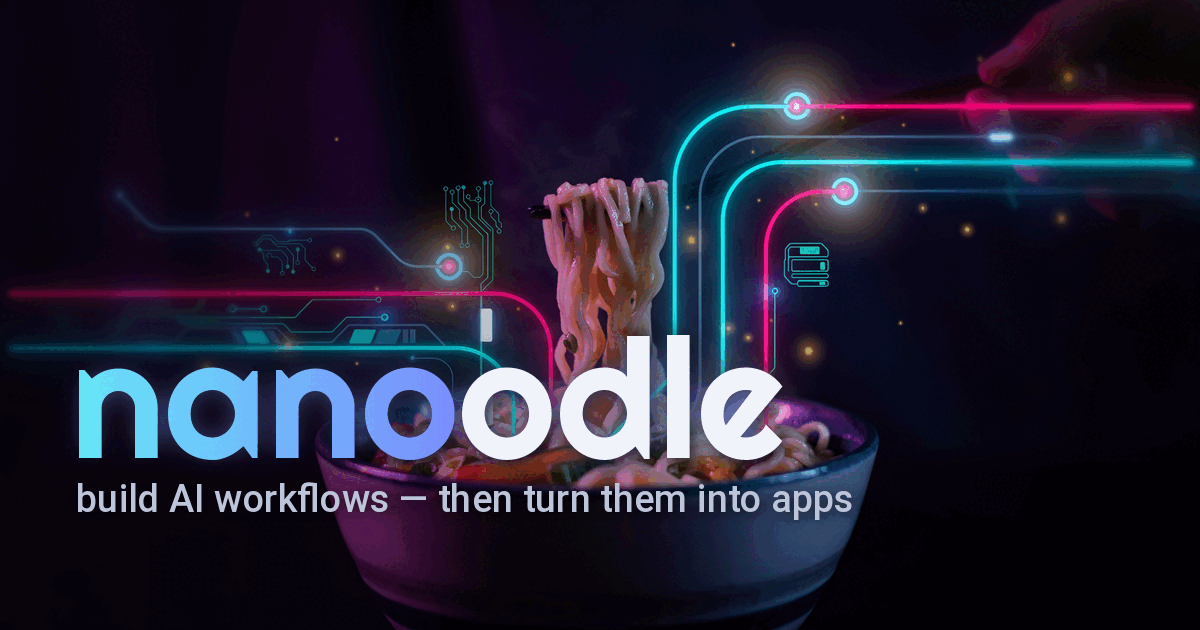
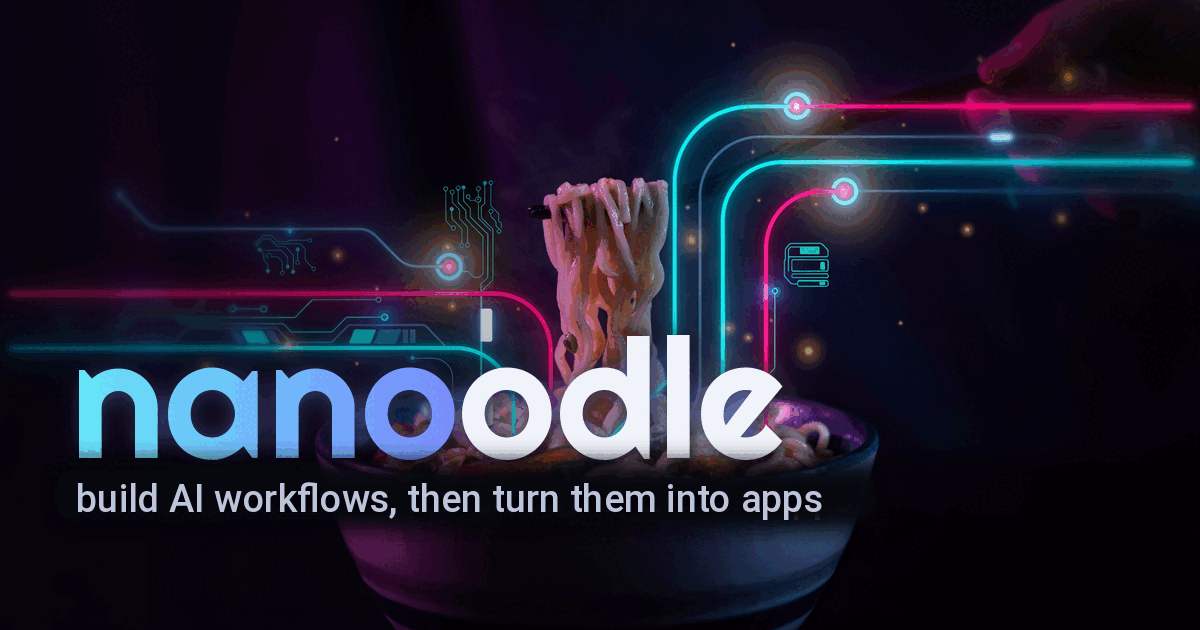
Drop em-dashes from the social copy and the card image
Reworded the meta titles/descriptions/alt on index/play/legal to use the
site's "nanoodle - X" hyphen convention, parentheses, and plain sentences
instead of em-dashes. Re-rendered og-card.png so the baked-in tagline reads
"build AI workflows, then turn them into apps". Code comments are untouched.

diff --git a/legal.html b/legal.html
@@ -3,24 +3,24 @@
 <head>
 <meta charset="utf-8" />
 <meta name="viewport" content="width=device-width, initial-scale=1" />
-<title>nanoodle — Terms, Privacy & FAQ</title>
-<meta name="description" content="nanoodle's Terms, Privacy policy and FAQ. No analytics, just static HTML and nano-gpt — noodle in privacy." />
+<title>nanoodle - Terms, Privacy & FAQ</title>
+<meta name="description" content="nanoodle's Terms, Privacy policy and FAQ. No analytics, just static HTML and nano-gpt, so you can noodle in privacy." />
 
 <!-- Open Graph -->
 <meta property="og:type" content="website" />
 <meta property="og:site_name" content="nanoodle" />
-<meta property="og:title" content="nanoodle — Terms, Privacy & FAQ" />
-<meta property="og:description" content="nanoodle's Terms, Privacy policy and FAQ. No analytics, just static HTML and nano-gpt — noodle in privacy." />
+<meta property="og:title" content="nanoodle - Terms, Privacy & FAQ" />
+<meta property="og:description" content="nanoodle's Terms, Privacy policy and FAQ. No analytics, just static HTML and nano-gpt, so you can noodle in privacy." />
 <meta property="og:url" content="https://nanoodle.com/legal.html" />
 <meta property="og:image" content="https://nanoodle.com/og-card.png" />
 <meta property="og:image:width" content="1200" />
 <meta property="og:image:height" content="630" />
-<meta property="og:image:alt" content="nanoodle — neon noodles flowing out of a ramen bowl into glowing workflow cables" />
+<meta property="og:image:alt" content="Neon noodles rising from a ramen bowl into glowing workflow cables, with the nanoodle logo" />
 
 <!-- Twitter -->
 <meta name="twitter:card" content="summary_large_image" />
-<meta name="twitter:title" content="nanoodle — Terms, Privacy & FAQ" />
-<meta name="twitter:description" content="nanoodle's Terms, Privacy policy and FAQ. No analytics, just static HTML and nano-gpt — noodle in privacy." />
+<meta name="twitter:title" content="nanoodle - Terms, Privacy & FAQ" />
+<meta name="twitter:description" content="nanoodle's Terms, Privacy policy and FAQ. No analytics, just static HTML and nano-gpt, so you can noodle in privacy." />
 <meta name="twitter:image" content="https://nanoodle.com/og-card.png" />
 
 <link rel="icon" href="/favicon.ico" sizes="any" />

diff --git a/index.html b/index.html
@@ -4,23 +4,23 @@
 <meta charset="utf-8" />
 <meta name="viewport" content="width=device-width, initial-scale=1, maximum-scale=1, user-scalable=no, viewport-fit=cover" />
 <title>nanoodle - workflow</title>
-<meta name="description" content="Build AI workflows with nano-gpt — ComfyUI-style, but way simpler. Turn your noodle into an app and refine it right in the browser. Share workflows and apps as plain URLs, or export to a single HTML file that's yours to keep. No analytics, just static HTML and nano-gpt — noodle in privacy." />
+<meta name="description" content="Build AI workflows with nano-gpt. ComfyUI-style, but way simpler. Turn your noodle into an app and refine it right in the browser. Share workflows and apps as plain URLs, or export to a single HTML file that's yours to keep. No analytics, just static HTML and nano-gpt, so you can noodle in privacy." />
 
 <!-- Open Graph -->
 <meta property="og:type" content="website" />
 <meta property="og:site_name" content="nanoodle" />
-<meta property="og:title" content="nanoodle — like ComfyUI, but way simpler" />
-<meta property="og:description" content="Wire up nano-gpt models — text, image, video, audio — into workflows in your browser, then turn one into a shareable app. Share or export, no analytics. Noodle in privacy." />
+<meta property="og:title" content="nanoodle - like ComfyUI, but way simpler" />
+<meta property="og:description" content="Wire up nano-gpt models (text, image, video, audio) into workflows in your browser, then turn one into a shareable app. Share or export, no analytics. Noodle in privacy." />
 <meta property="og:url" content="https://nanoodle.com/" />
 <meta property="og:image" content="https://nanoodle.com/og-card.png" />
 <meta property="og:image:width" content="1200" />
 <meta property="og:image:height" content="630" />
-<meta property="og:image:alt" content="nanoodle — neon noodles flowing out of a ramen bowl into glowing workflow cables" />
+<meta property="og:image:alt" content="Neon noodles rising from a ramen bowl into glowing workflow cables, with the nanoodle logo" />
 
 <!-- Twitter -->
 <meta name="twitter:card" content="summary_large_image" />
-<meta name="twitter:title" content="nanoodle — like ComfyUI, but way simpler" />
-<meta name="twitter:description" content="Wire up nano-gpt models — text, image, video, audio — into workflows in your browser, then turn one into a shareable app. Share or export, no analytics. Noodle in privacy." />
+<meta name="twitter:title" content="nanoodle - like ComfyUI, but way simpler" />
+<meta name="twitter:description" content="Wire up nano-gpt models (text, image, video, audio) into workflows in your browser, then turn one into a shareable app. Share or export, no analytics. Noodle in privacy." />
 <meta name="twitter:image" content="https://nanoodle.com/og-card.png" />
 
 <link rel="icon" href="/favicon.ico" sizes="any" />

diff --git a/play.html b/play.html
@@ -4,7 +4,7 @@
 <meta charset="utf-8" />
 <meta name="viewport" content="width=device-width, initial-scale=1" />
 <title>My nanoodle app</title>
-<meta name="description" content="A nanoodle app — built from an AI workflow with nano-gpt, refined right in the browser. No analytics, just static HTML and nano-gpt. Make your own at nanoodle.com." />
+<meta name="description" content="A nanoodle app built from an AI workflow with nano-gpt, refined right in the browser. No analytics, just static HTML and nano-gpt. Make your own at nanoodle.com." />
 
 <!-- Open Graph -->
 <meta property="og:type" content="website" />
@@ -15,7 +15,7 @@
 <meta property="og:image" content="https://nanoodle.com/og-card.png" />
 <meta property="og:image:width" content="1200" />
 <meta property="og:image:height" content="630" />
-<meta property="og:image:alt" content="nanoodle — neon noodles flowing out of a ramen bowl into glowing workflow cables" />
+<meta property="og:image:alt" content="Neon noodles rising from a ramen bowl into glowing workflow cables, with the nanoodle logo" />
 
 <!-- Twitter -->
 <meta name="twitter:card" content="summary_large_image" />